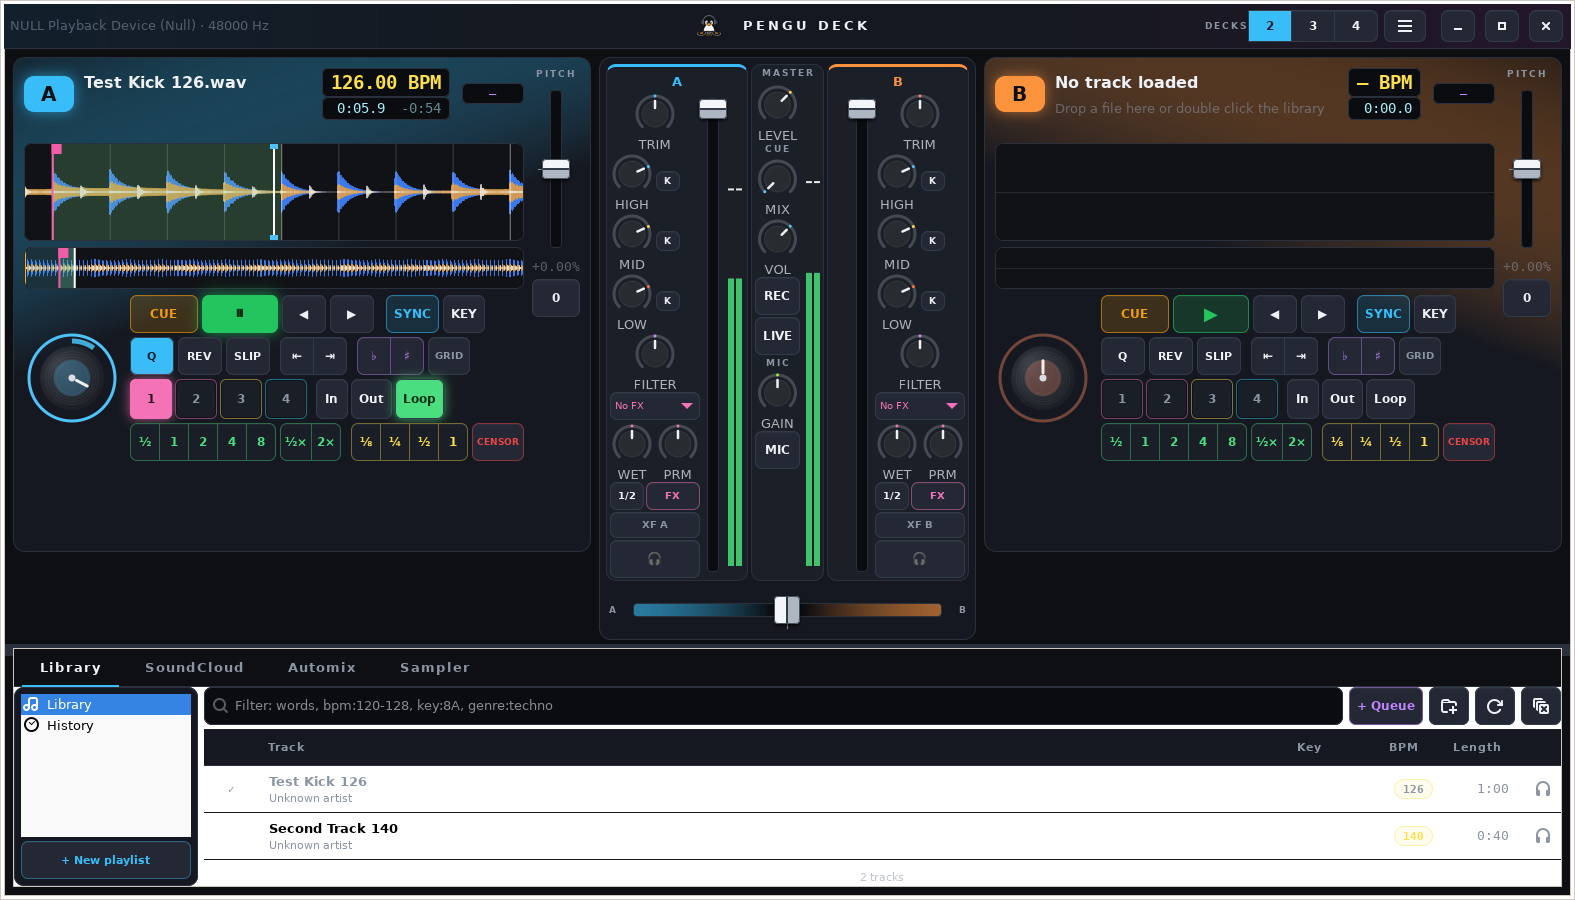
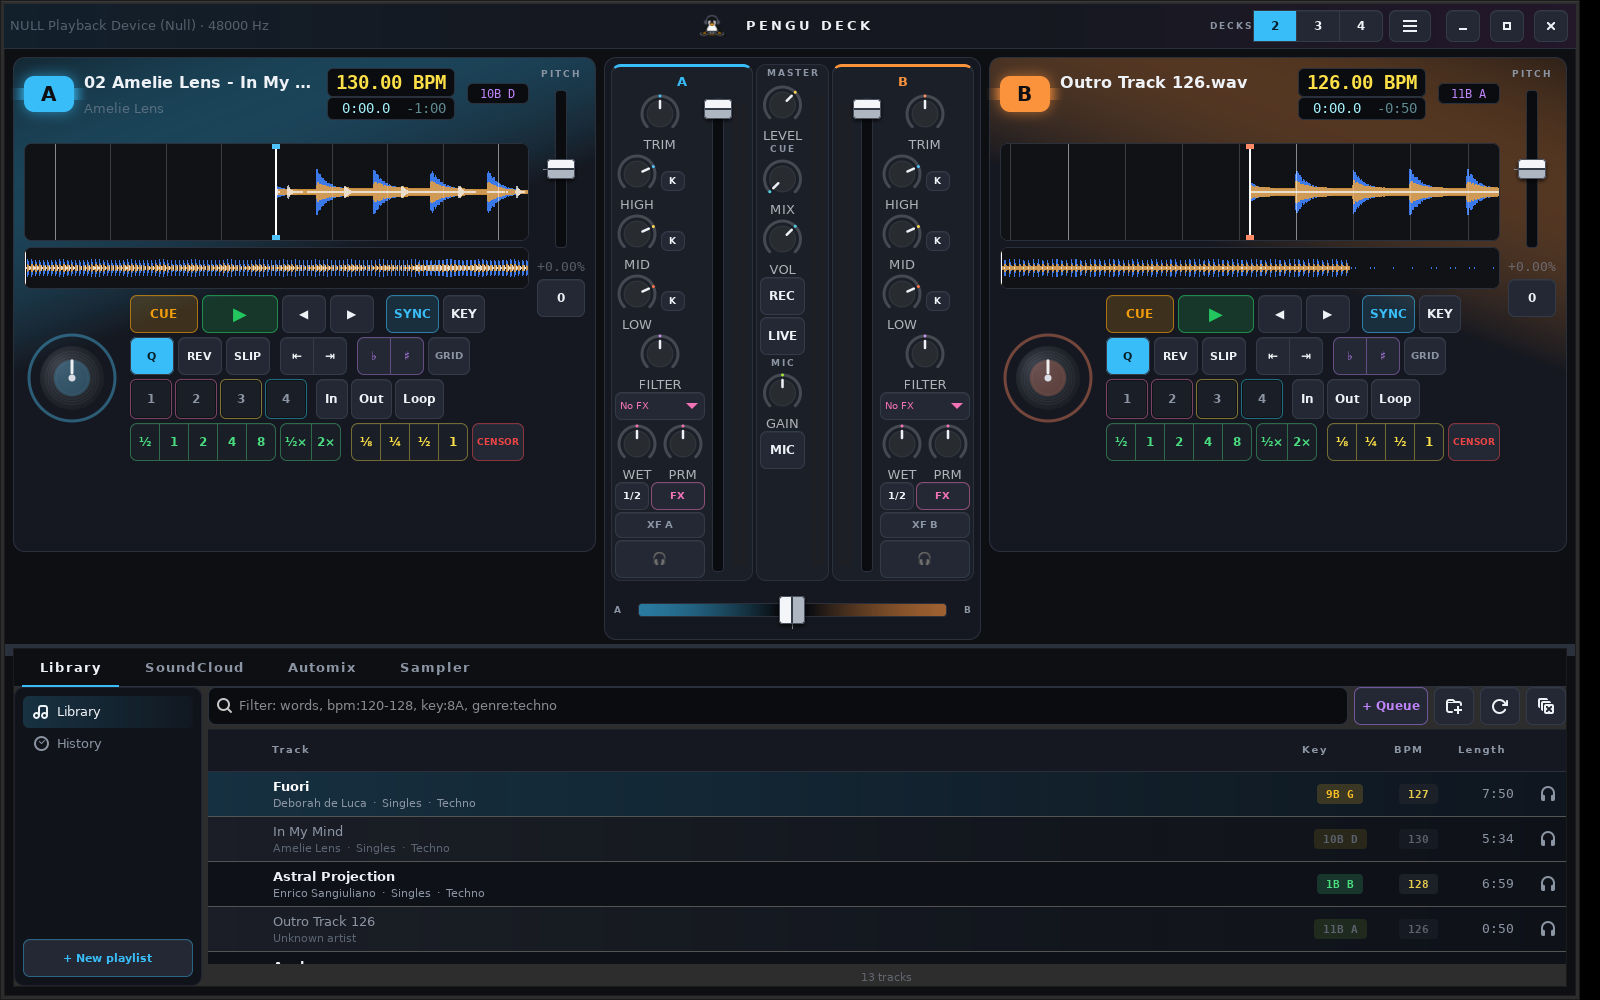
Library: calmer list theme, played rows as faded lines
Zebra rows on a near black list, a soft deck A gradient for the
selected row and a faint grey gradient with dimmed text for played
tracks instead of a check mark; pills lose their borders and the
column header is small caps.  The History view does not mark played
rows since every entry there was played.

Also fix a crash when switching the list to History or a playlist:
the sort and selection models own the model they wrap, so dropping
them separately unreferenced the chain twice.

Claude-Session: https://claude.ai/code/session_01VnKuMyQ7NLUSqEGKAy9PGs

diff --git a/data/style.css b/data/style.css
@@ -18,6 +18,8 @@
 @define-color loop #4ade80;
 @define-color hot #f472b6;
 @define-color rec #ef4444;
+@define-color list-bg #0e1118;
+@define-color list-alt #111520;
 
 * {
 	outline: none;
@@ -446,8 +448,9 @@ notebook > header tab:checked {
 }
 
 columnview.data-table,
+columnview.data-table > listview,
 listview.queue-list {
-	background: #0a0c10;
+	background: @list-bg;
 	color: @fg;
 }
 
@@ -456,10 +459,11 @@ columnview.data-table > header > button {
 	border: none;
 	border-bottom: 1px solid @line;
 	border-radius: 0;
-	padding: 4px 8px;
+	padding: 7px 8px;
 	font-weight: 700;
-	font-size: 11px;
-	letter-spacing: 1px;
+	font-size: 10px;
+	letter-spacing: 1.5px;
+	text-transform: uppercase;
 	color: @dim;
 }
 
@@ -468,14 +472,41 @@ listview.queue-list > row {
 	padding: 1px 0;
 }
 
-columnview.data-table > listview > row:selected,
-listview.queue-list > row:selected {
-	background: alpha(@deck-a, 0.3);
+columnview.data-table > listview > row:nth-child(even),
+listview.queue-list > row:nth-child(even) {
+	background: @list-alt;
 }
 
 columnview.data-table > listview > row:hover,
 listview.queue-list > row:hover {
-	background: #1a1e27;
+	background: #161a24;
+}
+
+/* selected and played rows fade from a tint on the left into the list */
+columnview.data-table > listview > row:selected,
+listview.queue-list > row:selected {
+	background: linear-gradient(90deg, alpha(@deck-a, 0.18),
+				    alpha(@deck-a, 0.03));
+}
+
+columnview.data-table > listview > row.played,
+listview.queue-list > row.played {
+	background: linear-gradient(90deg, alpha(@dim, 0.10),
+				    alpha(@dim, 0.0));
+}
+
+row.played .row-title {
+	color: @dim;
+	font-weight: 500;
+}
+
+row.played .row-sub,
+row.played .row-len {
+	color: #5b6473;
+}
+
+row.played .pill {
+	opacity: 0.6;
 }
 
 columnview.data-table cell,
@@ -626,12 +657,11 @@ popover > contents {
 /* ---- track list -------------------------------------------------- */
 
 columnview.data-table > listview > row {
-	min-height: 44px;
-	border-bottom: 1px solid #14181f;
+	min-height: 40px;
 }
 
 .row-title {
-	font-weight: 700;
+	font-weight: 600;
 	font-size: 13px;
 }
 
@@ -640,10 +670,6 @@ columnview.data-table > listview > row {
 	color: @dim;
 }
 
-.played .row-title,
-label.played {
-	color: @dim;
-}
 
 .row-state {
 	color: @deck-a;
@@ -658,16 +684,15 @@ label.played {
 	font-family: "JetBrains Mono", "DejaVu Sans Mono", monospace;
 	font-size: 11px;
 	font-weight: 700;
-	padding: 2px 8px;
-	border-radius: 10px;
-	border: 1px solid @line;
+	padding: 3px 9px;
+	border-radius: 4px;
+	border: none;
 	background: @panel2;
 }
 
 .pill-bpm {
-	color: #fde047;
-	border-color: alpha(#fde047, 0.4);
-	background: alpha(#fde047, 0.1);
+	color: #e5c94a;
+	background: #1b2029;
 }
 
 button.row-preview {
@@ -776,18 +801,18 @@ button.sc-login.logged-in {
 }
 
 /* Camelot wheel colours for the key pills */
-.pill.camelot-1 { background: alpha(#4ade80, 0.18); color: #4ade80; border-color: alpha(#4ade80, 0.6); }
-.pill.camelot-2 { background: alpha(#22d3ee, 0.18); color: #22d3ee; border-color: alpha(#22d3ee, 0.6); }
-.pill.camelot-3 { background: alpha(#38bdf8, 0.18); color: #38bdf8; border-color: alpha(#38bdf8, 0.6); }
-.pill.camelot-4 { background: alpha(#818cf8, 0.18); color: #818cf8; border-color: alpha(#818cf8, 0.6); }
-.pill.camelot-5 { background: alpha(#c084fc, 0.18); color: #c084fc; border-color: alpha(#c084fc, 0.6); }
-.pill.camelot-6 { background: alpha(#f472b6, 0.18); color: #f472b6; border-color: alpha(#f472b6, 0.6); }
-.pill.camelot-7 { background: alpha(#fb7185, 0.18); color: #fb7185; border-color: alpha(#fb7185, 0.6); }
-.pill.camelot-8 { background: alpha(#f97316, 0.18); color: #f97316; border-color: alpha(#f97316, 0.6); }
-.pill.camelot-9 { background: alpha(#fbbf24, 0.18); color: #fbbf24; border-color: alpha(#fbbf24, 0.6); }
-.pill.camelot-10 { background: alpha(#facc15, 0.18); color: #facc15; border-color: alpha(#facc15, 0.6); }
-.pill.camelot-11 { background: alpha(#a3e635, 0.18); color: #a3e635; border-color: alpha(#a3e635, 0.6); }
-.pill.camelot-12 { background: alpha(#34d399, 0.18); color: #34d399; border-color: alpha(#34d399, 0.6); }
+.pill.camelot-1 { background: alpha(#4ade80, 0.18); color: #4ade80; }
+.pill.camelot-2 { background: alpha(#22d3ee, 0.18); color: #22d3ee; }
+.pill.camelot-3 { background: alpha(#38bdf8, 0.18); color: #38bdf8; }
+.pill.camelot-4 { background: alpha(#818cf8, 0.18); color: #818cf8; }
+.pill.camelot-5 { background: alpha(#c084fc, 0.18); color: #c084fc; }
+.pill.camelot-6 { background: alpha(#f472b6, 0.18); color: #f472b6; }
+.pill.camelot-7 { background: alpha(#fb7185, 0.18); color: #fb7185; }
+.pill.camelot-8 { background: alpha(#f97316, 0.18); color: #f97316; }
+.pill.camelot-9 { background: alpha(#fbbf24, 0.18); color: #fbbf24; }
+.pill.camelot-10 { background: alpha(#facc15, 0.18); color: #facc15; }
+.pill.camelot-11 { background: alpha(#a3e635, 0.18); color: #a3e635; }
+.pill.camelot-12 { background: alpha(#34d399, 0.18); color: #34d399; }
 
 notebook > header > tabs > tab:checked,
 notebook > header tab:checked {
@@ -803,10 +828,10 @@ notebook > header tab:hover {
 /* ---- library sidebar --------------------------------------------- */
 
 .side-panel {
-	background: @panel;
-	border: 1px solid @line;
+	background: #10131a;
+	border: 1px solid #1f2430;
 	border-radius: 10px;
-	padding: 6px;
+	padding: 8px;
 }
 
 list.sidebar {
@@ -814,13 +839,15 @@ list.sidebar {
 }
 
 list.sidebar > row.side-row {
-	padding: 6px 8px;
-	border-radius: 8px;
+	padding: 8px 10px;
+	border-radius: 6px;
 	color: @dim;
+	font-size: 12.5px;
 }
 
 list.sidebar > row.side-row:selected {
-	background: alpha(@deck-a, 0.2);
+	background: linear-gradient(90deg, alpha(@deck-a, 0.18),
+				    alpha(@deck-a, 0.03));
 	color: @fg;
 }
 

diff --git a/src/ui/mediaview.c b/src/ui/mediaview.c
@@ -313,6 +313,9 @@ static void bind_cell(GtkListItemFactory *f, GtkListItem *li, gpointer data)
 	gboolean played = app_item_played(v->app, m);
 	char *tmp = NULL;
 
+	/* every history entry was played, marking them all says nothing */
+	if (v->store == history_items())
+		played = FALSE;
 	mark_played(w, played);
 
 	switch (col) {
@@ -770,10 +773,13 @@ void pd_media_view_set_store(PdMediaView *v, GListStore *store,
 	g_signal_handlers_disconnect_by_data(v->selection, v);
 	v->store = store;
 	v->playlist = playlist;
+	/*
+	 * The sort and selection models take ownership of the model they
+	 * wrap, so only the selection is ours to drop; it releases the
+	 * chain.  The filter is kept alive across the swap.
+	 */
 	g_object_ref(filter);
 	g_clear_object(&v->selection);
-	g_clear_object(&v->sorted);
-	g_clear_object(&v->filtered);
 	v->filtered = gtk_filter_list_model_new(
 			G_LIST_MODEL(g_object_ref(store)), filter);
 	gtk_filter_list_model_set_incremental(v->filtered, TRUE);
